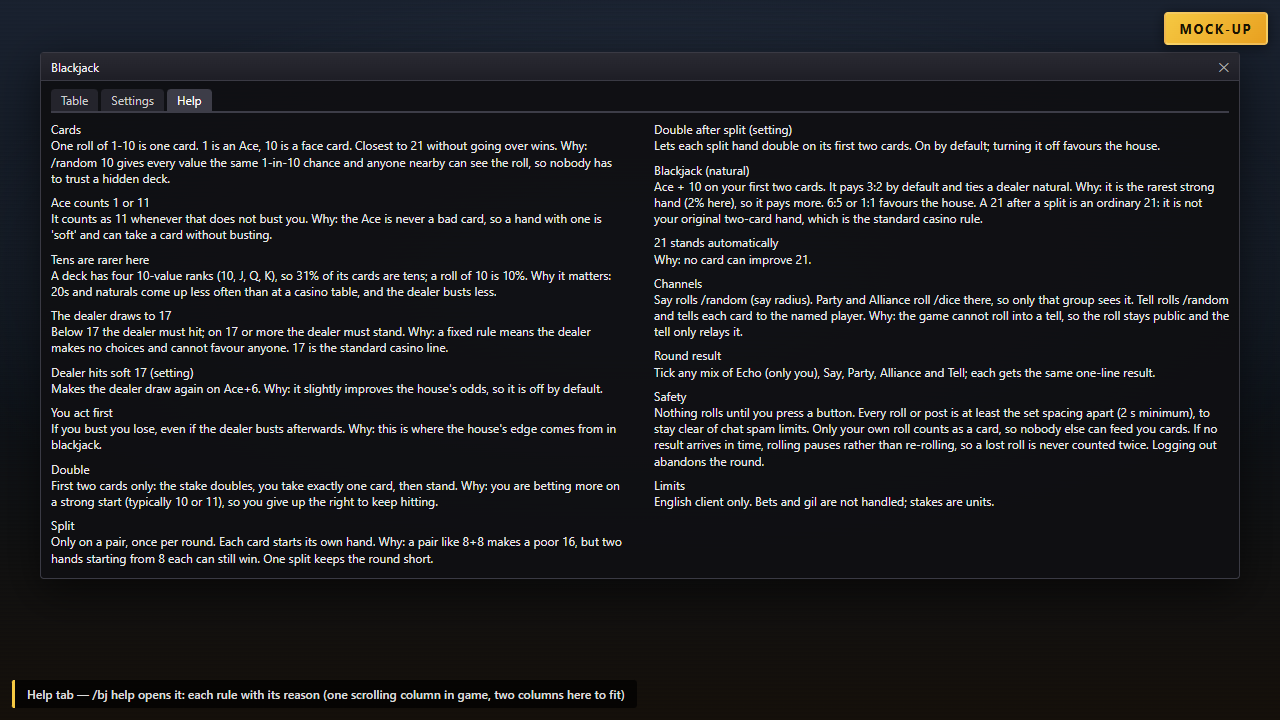
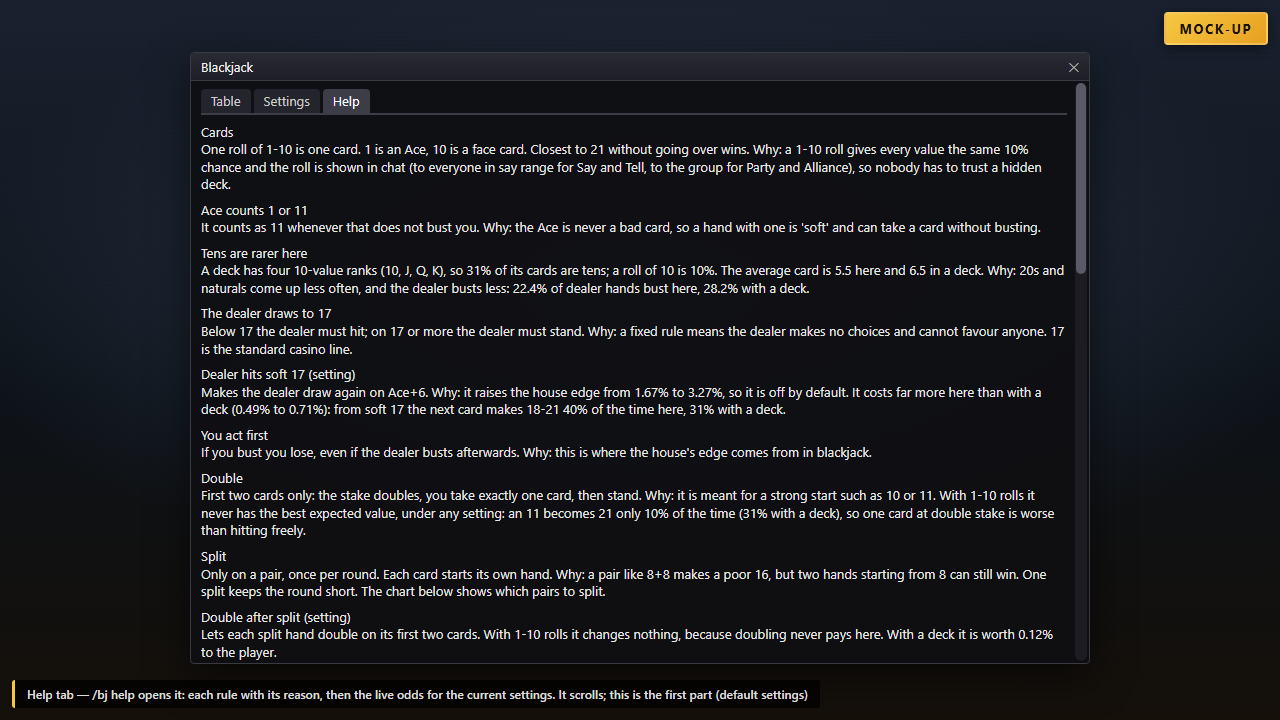
docs: re-render Help mock-up for live odds

Changed region(s): [[0.0312, 0.0917, 0.9688, 0.9167], [0.25, 0.9472, 0.625, 0.9778], [0.9375, 0.0917, 0.9688, 0.1222]]

diff --git a/docs/screenshots/src/04-help.html b/docs/screenshots/src/04-help.html
@@ -4,33 +4,100 @@
     <meta charset="UTF-8" />
     <title>Mock-up: Help tab</title>
     <link rel="stylesheet" href="common.css" />
+    <style>
+      .grid { border-collapse: collapse; margin: 2px 0 8px; }
+      .grid td { border: 1px solid #43434d; padding: 0 6px; text-align: center; white-space: pre; }
+      .grid td:first-child { text-align: left; }
+      .scroll { position: absolute; top: 30px; right: 2px; bottom: 2px; width: 12px; background: #1c1c22; border-radius: 6px; }
+      .scroll .grab { position: absolute; top: 0; left: 1px; right: 1px; height: 33%; background: #5a5a66; border-radius: 6px; }
+    </style>
   </head>
   <body>
     <div class="game-backdrop"></div>
     <div class="mockup-banner">Mock-up</div>
-    <div class="scene-label">Help tab — /bj help opens it: each rule with its reason (one scrolling column in game, two columns here to fit)</div>
-    <div class="imgui-window" style="top: 52px; left: 40px; width: 1200px; font-size: 12px;">
+    <div class="scene-label">Help tab — /bj help opens it: each rule with its reason, then the live odds for the current settings. It scrolls; this is the first part (default settings)</div>
+    <div class="imgui-window" style="top: 52px; left: 190px; width: 900px; height: 612px; overflow: hidden; font-size: 13px;">
       <div class="imgui-titlebar"><span>Blackjack</span><span class="close">✕</span></div>
-      <div class="imgui-body" style="line-height: 1.35;">
+      <div class="imgui-body" style="line-height: 1.35; padding-right: 22px;">
         <div class="tabs"><span class="tab">Table</span><span class="tab">Settings</span><span class="tab active">Help</span></div>
-        <div style="column-count: 2; column-gap: 28px;">
-          <div style="break-inside: avoid;"><div class="t">Cards</div><div class="wrap">One roll of 1-10 is one card. 1 is an Ace, 10 is a face card. Closest to 21 without going over wins. Why: /random 10 gives every value the same 1-in-10 chance and anyone nearby can see the roll, so nobody has to trust a hidden deck.</div></div>
-          <div style="break-inside: avoid;"><div class="t">Ace counts 1 or 11</div><div class="wrap">It counts as 11 whenever that does not bust you. Why: the Ace is never a bad card, so a hand with one is &#x27;soft&#x27; and can take a card without busting.</div></div>
-          <div style="break-inside: avoid;"><div class="t">Tens are rarer here</div><div class="wrap">A deck has four 10-value ranks (10, J, Q, K), so 31% of its cards are tens; a roll of 10 is 10%. Why it matters: 20s and naturals come up less often than at a casino table, and the dealer busts less.</div></div>
-          <div style="break-inside: avoid;"><div class="t">The dealer draws to 17</div><div class="wrap">Below 17 the dealer must hit; on 17 or more the dealer must stand. Why: a fixed rule means the dealer makes no choices and cannot favour anyone. 17 is the standard casino line.</div></div>
-          <div style="break-inside: avoid;"><div class="t">Dealer hits soft 17 (setting)</div><div class="wrap">Makes the dealer draw again on Ace+6. Why: it slightly improves the house&#x27;s odds, so it is off by default.</div></div>
-          <div style="break-inside: avoid;"><div class="t">You act first</div><div class="wrap">If you bust you lose, even if the dealer busts afterwards. Why: this is where the house&#x27;s edge comes from in blackjack.</div></div>
-          <div style="break-inside: avoid;"><div class="t">Double</div><div class="wrap">First two cards only: the stake doubles, you take exactly one card, then stand. Why: you are betting more on a strong start (typically 10 or 11), so you give up the right to keep hitting.</div></div>
-          <div style="break-inside: avoid;"><div class="t">Split</div><div class="wrap">Only on a pair, once per round. Each card starts its own hand. Why: a pair like 8+8 makes a poor 16, but two hands starting from 8 each can still win. One split keeps the round short.</div></div>
-          <div style="break-inside: avoid;"><div class="t">Double after split (setting)</div><div class="wrap">Lets each split hand double on its first two cards. On by default; turning it off favours the house.</div></div>
-          <div style="break-inside: avoid;"><div class="t">Blackjack (natural)</div><div class="wrap">Ace + 10 on your first two cards. It pays 3:2 by default and ties a dealer natural. Why: it is the rarest strong hand (2% here), so it pays more. 6:5 or 1:1 favours the house. A 21 after a split is an ordinary 21: it is not your original two-card hand, which is the standard casino rule.</div></div>
-          <div style="break-inside: avoid;"><div class="t">21 stands automatically</div><div class="wrap">Why: no card can improve 21.</div></div>
-          <div style="break-inside: avoid;"><div class="t">Channels</div><div class="wrap">Say rolls /random (say radius). Party and Alliance roll /dice there, so only that group sees it. Tell rolls /random and tells each card to the named player. Why: the game cannot roll into a tell, so the roll stays public and the tell only relays it.</div></div>
-          <div style="break-inside: avoid;"><div class="t">Round result</div><div class="wrap">Tick any mix of Echo (only you), Say, Party, Alliance and Tell; each gets the same one-line result.</div></div>
-          <div style="break-inside: avoid;"><div class="t">Safety</div><div class="wrap">Nothing rolls until you press a button. Every roll or post is at least the set spacing apart (2 s minimum), to stay clear of chat spam limits. Only your own roll counts as a card, so nobody else can feed you cards. If no result arrives in time, rolling pauses rather than re-rolling, so a lost roll is never counted twice. Logging out abandons the round.</div></div>
-          <div style="break-inside: avoid;"><div class="t">Limits</div><div class="wrap">English client only. Bets and gil are not handled; stakes are units.</div></div>
+        <div id="content">
+          <div class="t">Cards</div>
+<div class="wrap">One roll of 1-10 is one card. 1 is an Ace, 10 is a face card. Closest to 21 without going over wins. Why: a 1-10 roll gives every value the same 10% chance and the roll is shown in chat (to everyone in say range for Say and Tell, to the group for Party and Alliance), so nobody has to trust a hidden deck.</div>
+          <div class="t">Ace counts 1 or 11</div>
+<div class="wrap">It counts as 11 whenever that does not bust you. Why: the Ace is never a bad card, so a hand with one is &#39;soft&#39; and can take a card without busting.</div>
+          <div class="t">Tens are rarer here</div>
+<div class="wrap">A deck has four 10-value ranks (10, J, Q, K), so 31% of its cards are tens; a roll of 10 is 10%. The average card is 5.5 here and 6.5 in a deck. Why: 20s and naturals come up less often, and the dealer busts less: 22.4% of dealer hands bust here, 28.2% with a deck.</div>
+          <div class="t">The dealer draws to 17</div>
+<div class="wrap">Below 17 the dealer must hit; on 17 or more the dealer must stand. Why: a fixed rule means the dealer makes no choices and cannot favour anyone. 17 is the standard casino line.</div>
+          <div class="t">Dealer hits soft 17 (setting)</div>
+<div class="wrap">Makes the dealer draw again on Ace+6. Why: it raises the house edge from 1.67% to 3.27%, so it is off by default. It costs far more here than with a deck (0.49% to 0.71%): from soft 17 the next card makes 18-21 40% of the time here, 31% with a deck.</div>
+          <div class="t">You act first</div>
+<div class="wrap">If you bust you lose, even if the dealer busts afterwards. Why: this is where the house&#39;s edge comes from in blackjack.</div>
+          <div class="t">Double</div>
+<div class="wrap">First two cards only: the stake doubles, you take exactly one card, then stand. Why: it is meant for a strong start such as 10 or 11. With 1-10 rolls it never has the best expected value, under any setting: an 11 becomes 21 only 10% of the time (31% with a deck), so one card at double stake is worse than hitting freely.</div>
+          <div class="t">Split</div>
+<div class="wrap">Only on a pair, once per round. Each card starts its own hand. Why: a pair like 8+8 makes a poor 16, but two hands starting from 8 can still win. One split keeps the round short. The chart below shows which pairs to split.</div>
+          <div class="t">Double after split (setting)</div>
+<div class="wrap">Lets each split hand double on its first two cards. With 1-10 rolls it changes nothing, because doubling never pays here. With a deck it is worth 0.12% to the player.</div>
+          <div class="t">Blackjack (natural)</div>
+<div class="wrap">Ace + 10 on your first two cards: 2.0% of hands here, 4.7% with a deck. It pays 3:2 by default and ties a dealer natural. Why: it is the best hand and rare, so it pays more. A 21 after a split is an ordinary 21: it is not your original two-card hand (the standard casino rule).</div>
+          <div class="t">21 stands automatically</div>
+<div class="wrap">Why: no card can improve 21.</div>
+          <div class="sep"></div>
+          <div class="t">The maths (current settings, best play)</div>
+          <div class="t">House edge</div>
+<div class="wrap">You lose 1.67% of every unit staked on average: 1.7 units per 100. The same rules with a deck: 0.49%. By natural payout: 3:2 1.67%, 6:5 2.26%, 2:1 0.69%, 1:1 2.65%.</div>
+          <div class="t">Luck against the edge</div>
+<div class="wrap">One round swings about 0.98 units either way (standard deviation). Over n rounds the edge costs n x 1.67% of a unit, while luck spreads about 0.98 x sqrt(n), so the edge only outweighs luck after about 3,450 rounds.</div>
+          <div class="t">Busting when you hit</div>
+<div class="wrap">A hard total t of 12 or more busts on the next card (t - 11) x 10% of the time: 12 10%, 14 30%, 16 50%, 20 90%. With a deck: 12 31%, 16 62%. That is why the chart hits more than a casino chart does.</div>
+          <div class="t">Dealer busts, by up-card</div>
+<table class="grid">
+<tr><td></td><td>2</td><td>3</td><td>4</td><td>5</td><td>6</td><td>7</td><td>8</td><td>9</td><td>10</td><td>A</td></tr>
+<tr><td>Dice</td><td>23%</td><td>24%</td><td>25%</td><td>27%</td><td>28%</td><td>26%</td><td>23%</td><td>21%</td><td>19%</td><td>7%</td></tr>
+<tr><td>Deck</td><td>35%</td><td>37%</td><td>39%</td><td>42%</td><td>42%</td><td>26%</td><td>24%</td><td>23%</td><td>21%</td><td>12%</td></tr>
+</table>
+          <div class="t">Best play: H hit, S stand, D double, P split</div>
+<div class="wrap">Hard 11 or less: always hit. Hard 18 or more, and soft 19 or more: always stand.</div>
+<table class="grid">
+<tr><td>You \ Dealer</td><td>2</td><td>3</td><td>4</td><td>5</td><td>6</td><td>7</td><td>8</td><td>9</td><td>10</td><td>A</td></tr>
+<tr><td>Hard 12</td><td>H</td><td>H</td><td>H</td><td>H</td><td>H</td><td>H</td><td>H</td><td>H</td><td>H</td><td>H</td></tr>
+<tr><td>Hard 13</td><td>H</td><td>H</td><td>H</td><td>H</td><td>H</td><td>H</td><td>H</td><td>H</td><td>H</td><td>H</td></tr>
+<tr><td>Hard 14</td><td>H</td><td>H</td><td>H</td><td>H</td><td>H</td><td>H</td><td>H</td><td>H</td><td>H</td><td>H</td></tr>
+<tr><td>Hard 15</td><td>H</td><td>H</td><td>H</td><td>H</td><td>H</td><td>H</td><td>H</td><td>H</td><td>H</td><td>H</td></tr>
+<tr><td>Hard 16</td><td>H</td><td>H</td><td>H</td><td>H</td><td>H</td><td>H</td><td>H</td><td>H</td><td>H</td><td>H</td></tr>
+<tr><td>Hard 17</td><td>S</td><td>S</td><td>S</td><td>S</td><td>S</td><td>S</td><td>S</td><td>S</td><td>S</td><td>H</td></tr>
+<tr><td>Soft 13</td><td>H</td><td>H</td><td>H</td><td>H</td><td>H</td><td>H</td><td>H</td><td>H</td><td>H</td><td>H</td></tr>
+<tr><td>Soft 14</td><td>H</td><td>H</td><td>H</td><td>H</td><td>H</td><td>H</td><td>H</td><td>H</td><td>H</td><td>H</td></tr>
+<tr><td>Soft 15</td><td>H</td><td>H</td><td>H</td><td>H</td><td>H</td><td>H</td><td>H</td><td>H</td><td>H</td><td>H</td></tr>
+<tr><td>Soft 16</td><td>H</td><td>H</td><td>H</td><td>H</td><td>H</td><td>H</td><td>H</td><td>H</td><td>H</td><td>H</td></tr>
+<tr><td>Soft 17</td><td>H</td><td>H</td><td>H</td><td>H</td><td>H</td><td>H</td><td>H</td><td>H</td><td>H</td><td>H</td></tr>
+<tr><td>Soft 18</td><td>H</td><td>H</td><td>H</td><td>H</td><td>S</td><td>S</td><td>H</td><td>H</td><td>H</td><td>H</td></tr>
+<tr><td>Soft 19</td><td>S</td><td>S</td><td>S</td><td>S</td><td>S</td><td>S</td><td>S</td><td>S</td><td>S</td><td>S</td></tr>
+<tr><td>Soft 20</td><td>S</td><td>S</td><td>S</td><td>S</td><td>S</td><td>S</td><td>S</td><td>S</td><td>S</td><td>S</td></tr>
+<tr><td>Pair As</td><td>P</td><td>P</td><td>P</td><td>P</td><td>P</td><td>P</td><td>P</td><td>P</td><td>P</td><td>P</td></tr>
+<tr><td>Pair 2s</td><td>H</td><td>H</td><td>P</td><td>P</td><td>P</td><td>P</td><td>P</td><td>P</td><td>H</td><td>H</td></tr>
+<tr><td>Pair 3s</td><td>P</td><td>P</td><td>P</td><td>P</td><td>P</td><td>P</td><td>P</td><td>P</td><td>H</td><td>H</td></tr>
+<tr><td>Pair 4s</td><td>H</td><td>H</td><td>H</td><td>H</td><td>P</td><td>P</td><td>P</td><td>H</td><td>H</td><td>H</td></tr>
+<tr><td>Pair 5s</td><td>H</td><td>H</td><td>H</td><td>H</td><td>H</td><td>H</td><td>H</td><td>H</td><td>H</td><td>H</td></tr>
+<tr><td>Pair 6s</td><td>H</td><td>H</td><td>H</td><td>H</td><td>H</td><td>H</td><td>H</td><td>H</td><td>H</td><td>H</td></tr>
+<tr><td>Pair 7s</td><td>H</td><td>H</td><td>H</td><td>H</td><td>P</td><td>P</td><td>H</td><td>H</td><td>H</td><td>H</td></tr>
+<tr><td>Pair 8s</td><td>P</td><td>P</td><td>P</td><td>P</td><td>P</td><td>P</td><td>P</td><td>P</td><td>P</td><td>H</td></tr>
+<tr><td>Pair 9s</td><td>S</td><td>S</td><td>S</td><td>S</td><td>S</td><td>S</td><td>S</td><td>S</td><td>S</td><td>S</td></tr>
+<tr><td>Pair 10s</td><td>S</td><td>S</td><td>S</td><td>S</td><td>S</td><td>S</td><td>S</td><td>S</td><td>S</td><td>S</td></tr>
+</table>
+          <div class="sep"></div>
+          <div class="t">Channels</div>
+<div class="wrap">Say rolls /random (say radius). Party and Alliance roll /dice there, so only that group sees it. Tell rolls /random and tells each card to the named player. Why: the game cannot roll into a tell, so the roll stays public and the tell only relays it.</div>
+          <div class="t">Round result</div>
+<div class="wrap">Tick any mix of Echo (only you), Say, Party, Alliance and Tell; each gets the same one-line result.</div>
+          <div class="t">Safety</div>
+<div class="wrap">Nothing rolls until you press a button. Every roll or post is at least the set spacing apart (2 s minimum), to stay clear of chat spam limits. Only your own roll counts as a card, so nobody else can feed you cards. If no result arrives in time, rolling pauses rather than re-rolling, so a lost roll is never counted twice. Logging out abandons the round.</div>
+          <div class="t">Limits</div>
+<div class="wrap">English client only. Bets and gil are not handled; stakes are units. The maths assumes best play and the 1-10 rolls are fair.</div>
         </div>
       </div>
+      <div class="scroll"><div class="grab"></div></div>
     </div>
   </body>
 </html>

diff --git a/README.md b/README.md
@@ -17,7 +17,7 @@ These images are **mock-ups** (HTML rendered to PNG). They are not real in-game 
 | ![Table mock-up](docs/screenshots/01-table-your-move.png) | **Your move** — Table tab after the deal: A 7 (soft 18) against the dealer's 6, with Hit, Stand and Double enabled. |
 | ![Split round mock-up](docs/screenshots/02-split-round-over.png) | **Split, double and settle** — two hands from a pair of 8s, Hand 2 doubled, dealer stands on soft 18, with per-hand results and the round net. |
 | ![Settings mock-up](docs/screenshots/03-settings.png) | **Settings** — rolls by Tell (`/random 10`, then each card by `/tell`), the round result ticked for Echo and Tell, the tell target, the pacing sliders and the table rules. |
-| ![Help mock-up](docs/screenshots/04-help.png) | **Help** — the tab `/bj help` opens: each rule with the reason behind it, the channel choices, the round result, safety and limits (two columns here; one scrolling column in game). |
+| ![Help mock-up](docs/screenshots/04-help.png) | **Help** — the tab `/bj help` opens: each rule with the reason behind it, at the default settings. The tab scrolls and this shows its top; further down are the live odds (house edge, luck against the edge, bust on hit, dealer bust by up-card, the best-play chart), then channels, round result, safety and limits. |
 | ![Tell rolls mock-up](docs/screenshots/05-random-chat-result.png) | **Tell** — each `Random! You roll a N (out of 10).` in the say radius becomes a card and is told to the player (`Card: A (you soft 11)`, `Dealer card: 10 (dealer 16)`); the round result is echoed and told as one line. |
 | ![Party dice mock-up](docs/screenshots/06-dice-party-dealing.png) | **`/dice party 10`** — only your own roll counts as a card; another party member's roll is ignored. |
 
